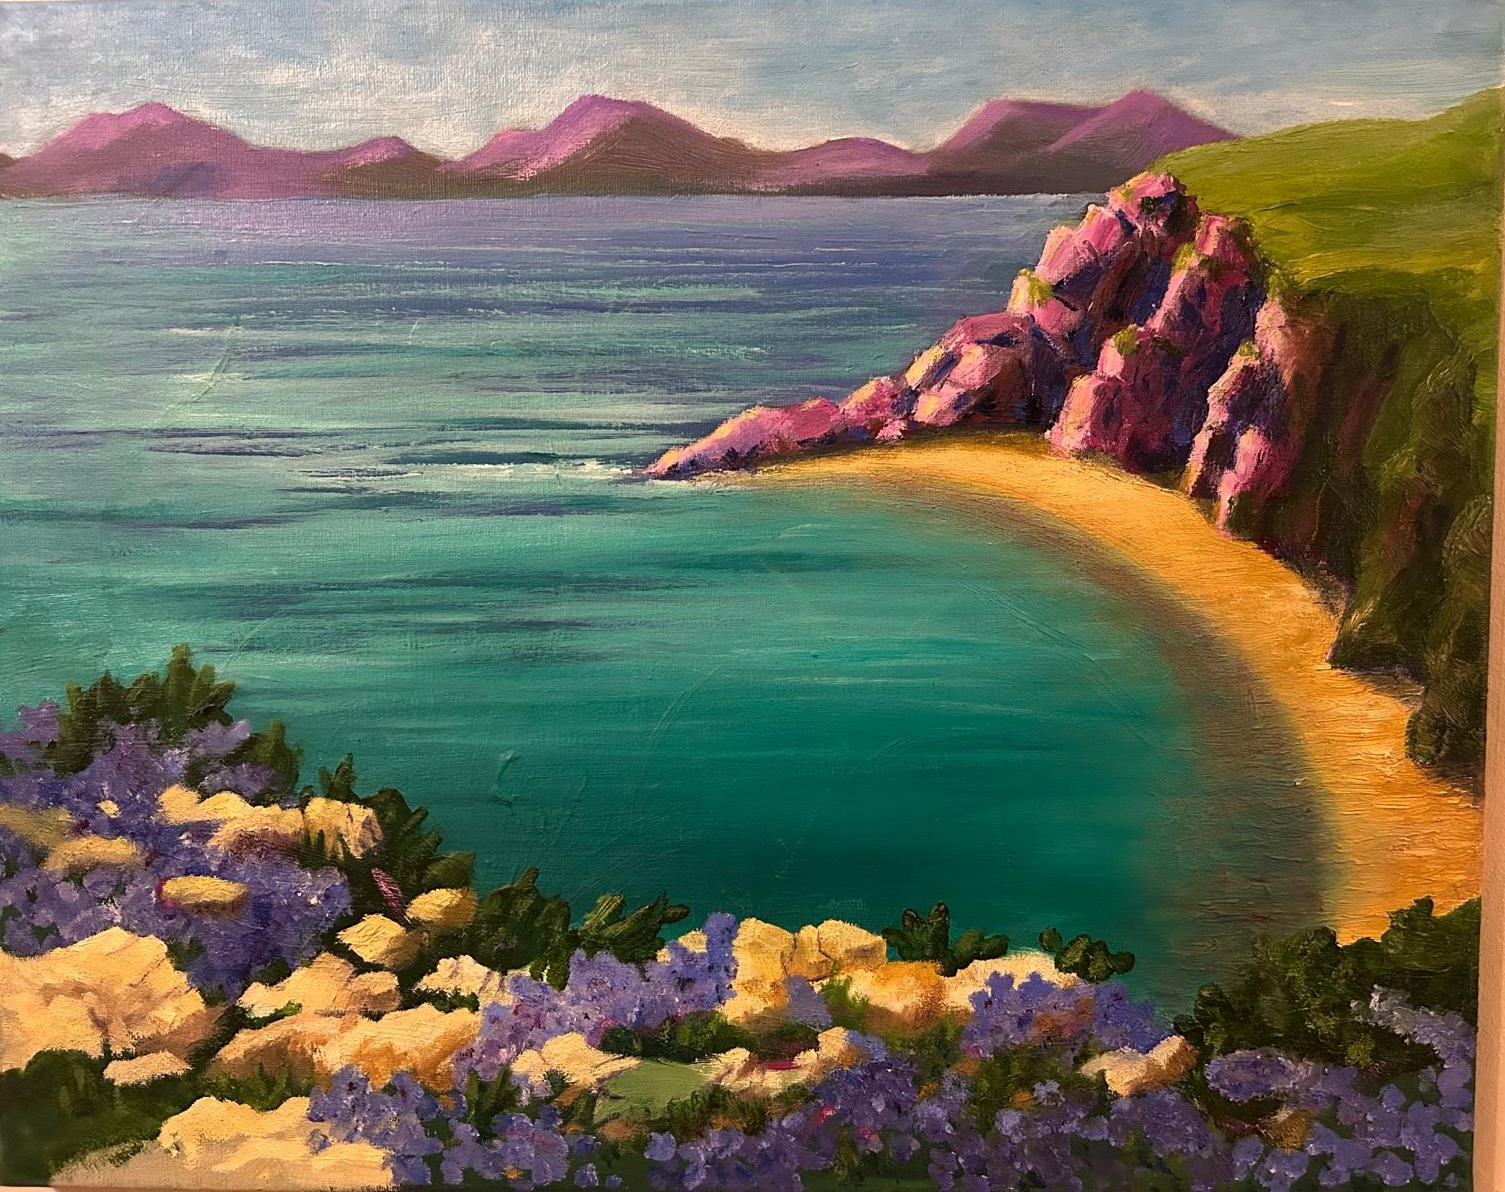
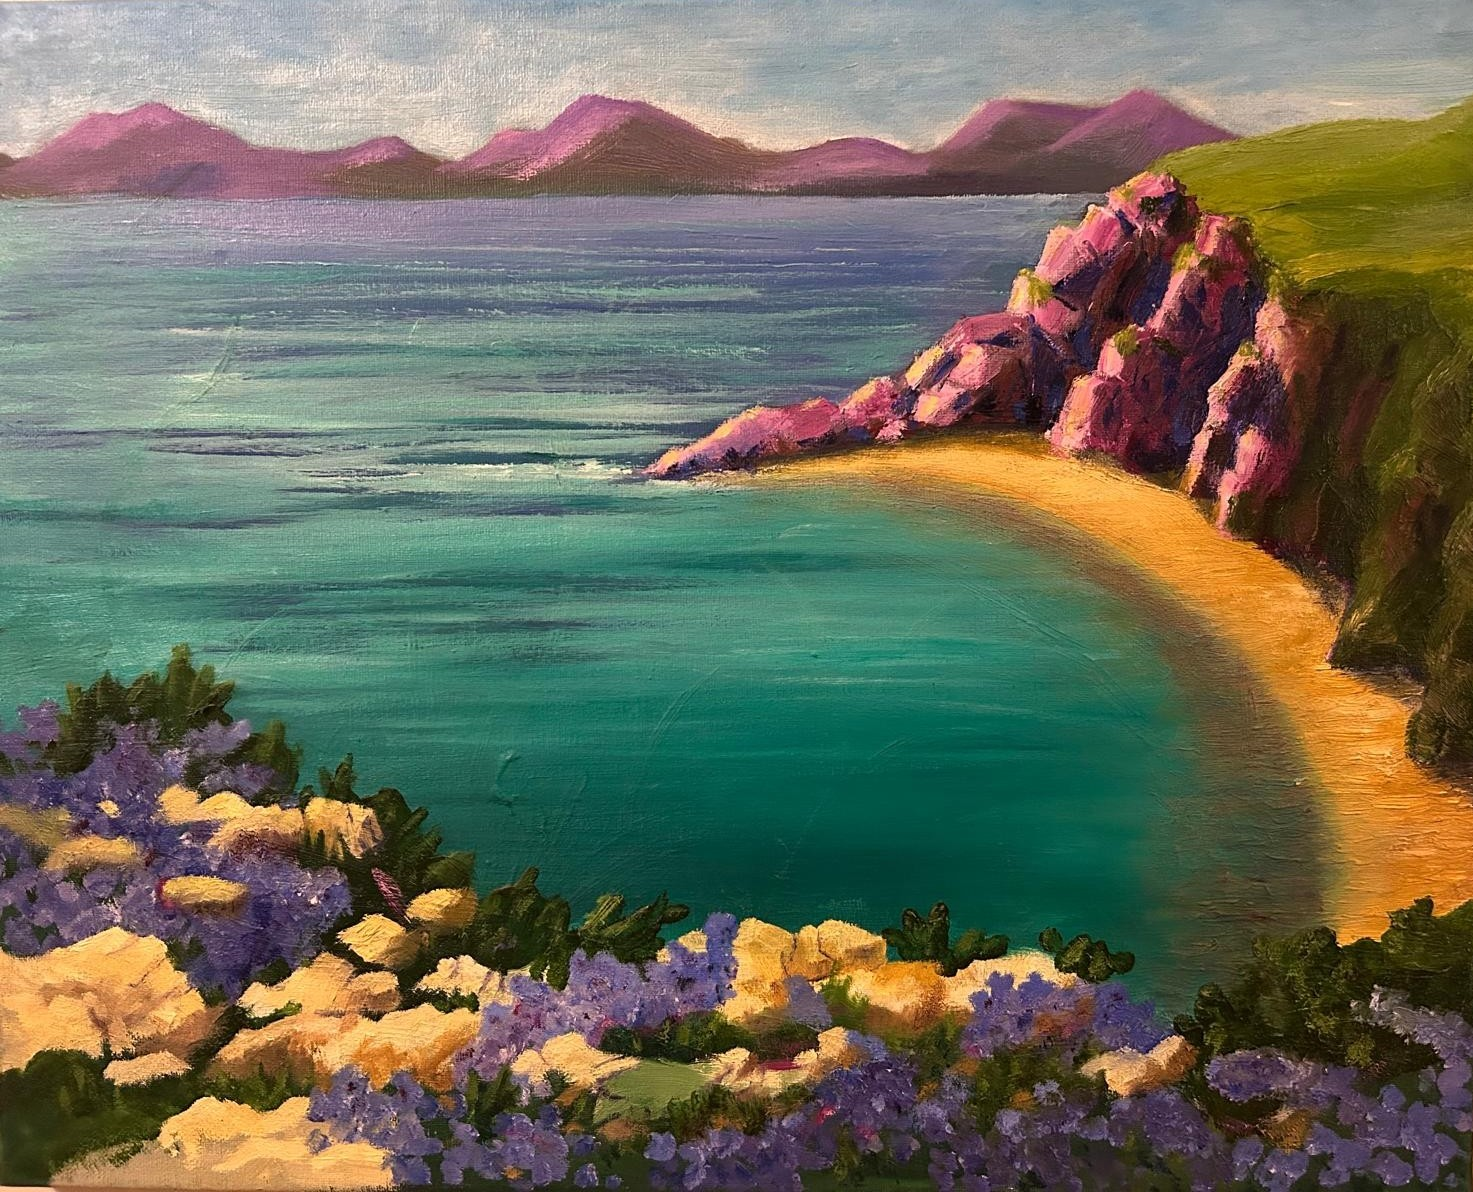
Update wordmark, cropped paintings, minor changes

Changed region(s): [[0.0312, 0.0, 1.0, 1.0], [0.3435, 0.5277, 0.406, 0.5587], [0.3123, 0.4966, 0.3435, 0.5277]]

diff --git a/src/styles/global.css b/src/styles/global.css
@@ -39,7 +39,7 @@ body[data-nav="page"] .nav.nav-hidden{position:fixed}
    handwritten SVG inherits the link colour via fill:currentColor */
 .brand{display:block;color:var(--ink);text-decoration:none;
     opacity:1;pointer-events:auto;transition:opacity .4s ease,color .4s ease}
-.brand svg{display:block;height:24px;width:auto}
+.brand svg{display:block;height:18px;width:auto}
 .nav:not(.scrolled) .brand{color:#fff}
 .nav:not(.scrolled) .brand svg{filter:drop-shadow(0 1px 8px rgba(0,0,0,.5))}
 .nav.scrolled .brand{color:var(--ink)}
@@ -120,6 +120,7 @@ body.menu-open{overflow:hidden}
 .foot-left{display:flex;align-items:baseline;gap:1rem;flex-wrap:wrap}
 .foot-mark{font-family:'Fraunces',serif;font-size:1.2rem}
 .foot-copy{font-size:.76rem;color:var(--muted)}
+.foot-credit{font-size:.7rem;color:var(--muted);opacity:.75;letter-spacing:.02em}
 .foot-right{display:flex;align-items:center;gap:.7rem;flex-wrap:wrap}
 .foot-btn{display:inline-block;font-size:.72rem;letter-spacing:.14em;text-transform:uppercase;white-space:nowrap;
     border:1px solid var(--ink);color:var(--ink);padding:.6rem 1.2rem;border-radius:999px;text-decoration:none;
@@ -135,6 +136,7 @@ body.menu-open{overflow:hidden}
 body[data-footer="transparent"] .site-footer{background:transparent;border-top-color:transparent;color:#fff;
     text-shadow:0 1px 14px rgba(0,0,0,.55)}
 body[data-footer="transparent"] .foot-copy,
+body[data-footer="transparent"] .foot-credit,
 body[data-footer="transparent"] .to-top{color:rgba(255,255,255,.6)}
 body[data-footer="transparent"] .to-top:hover{color:#fff}
 body[data-footer="transparent"] .foot-btn{border-color:rgba(255,255,255,.5);color:#fff}
